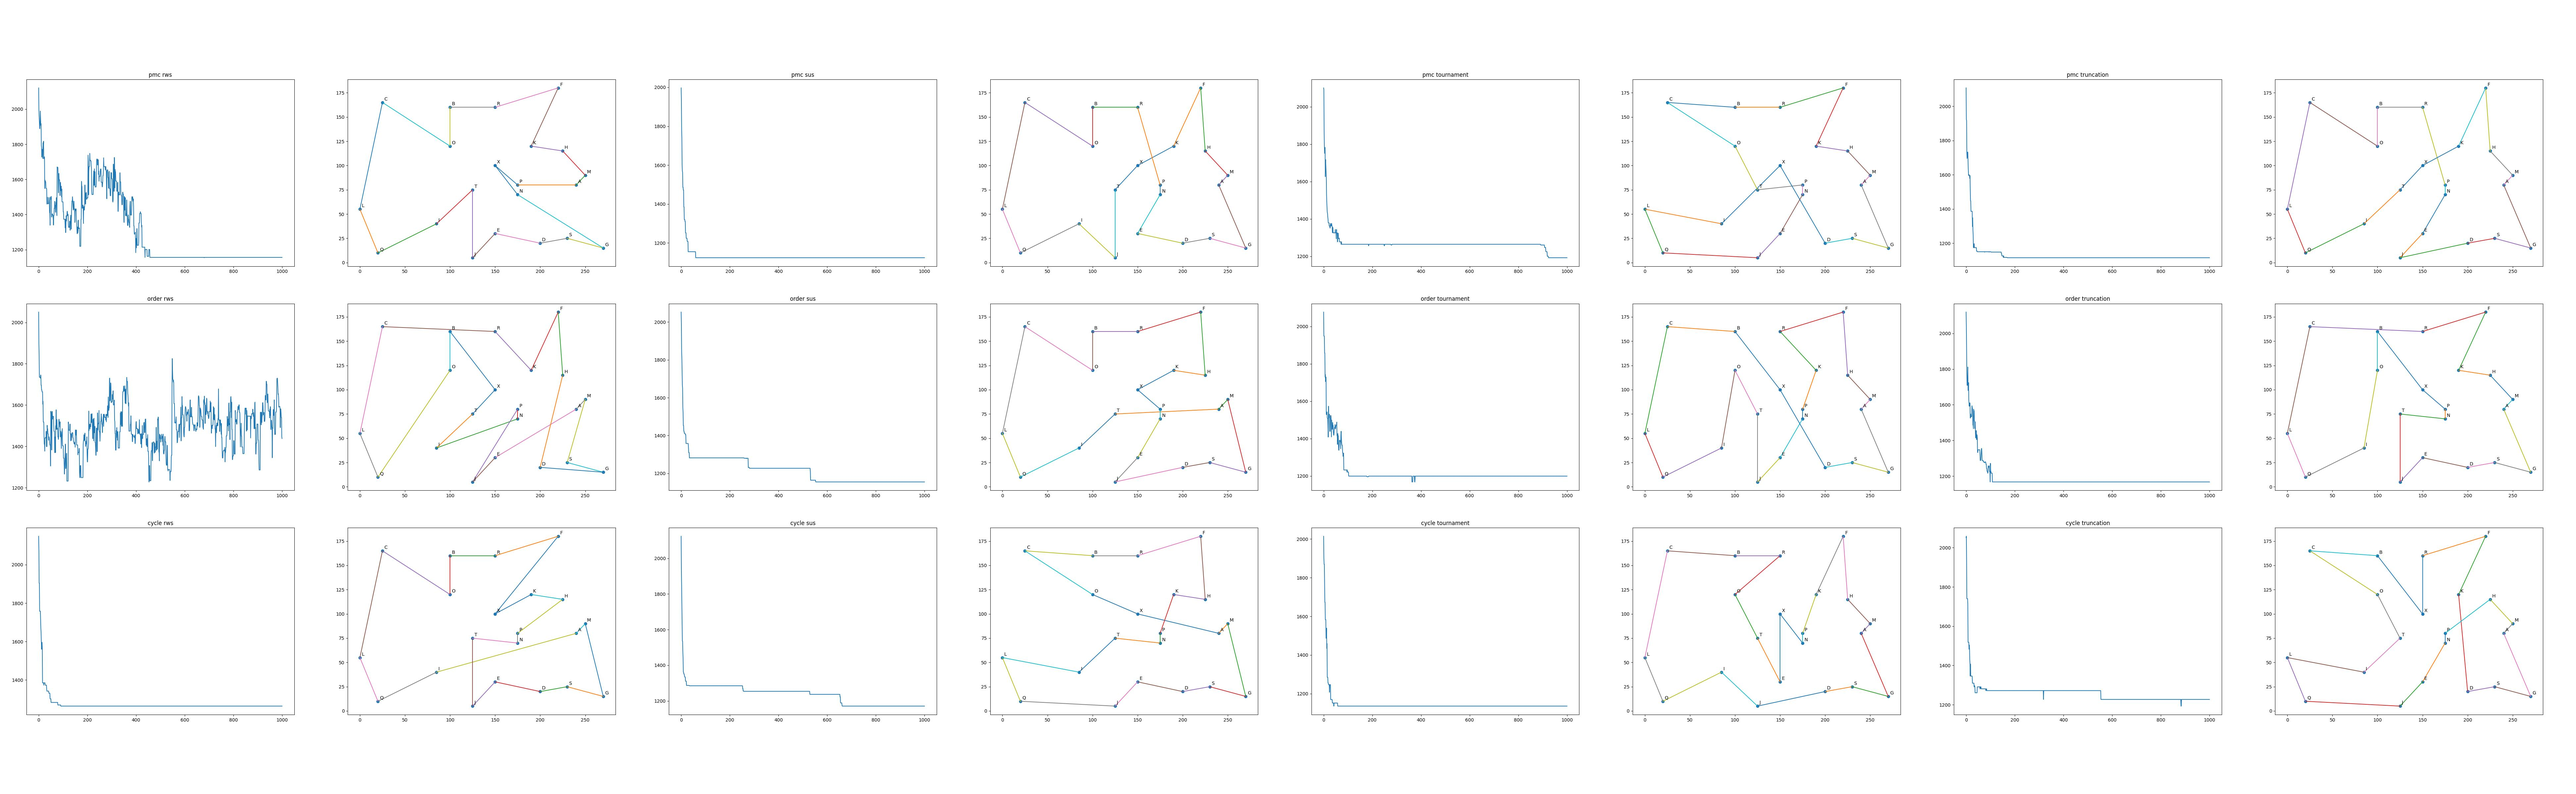
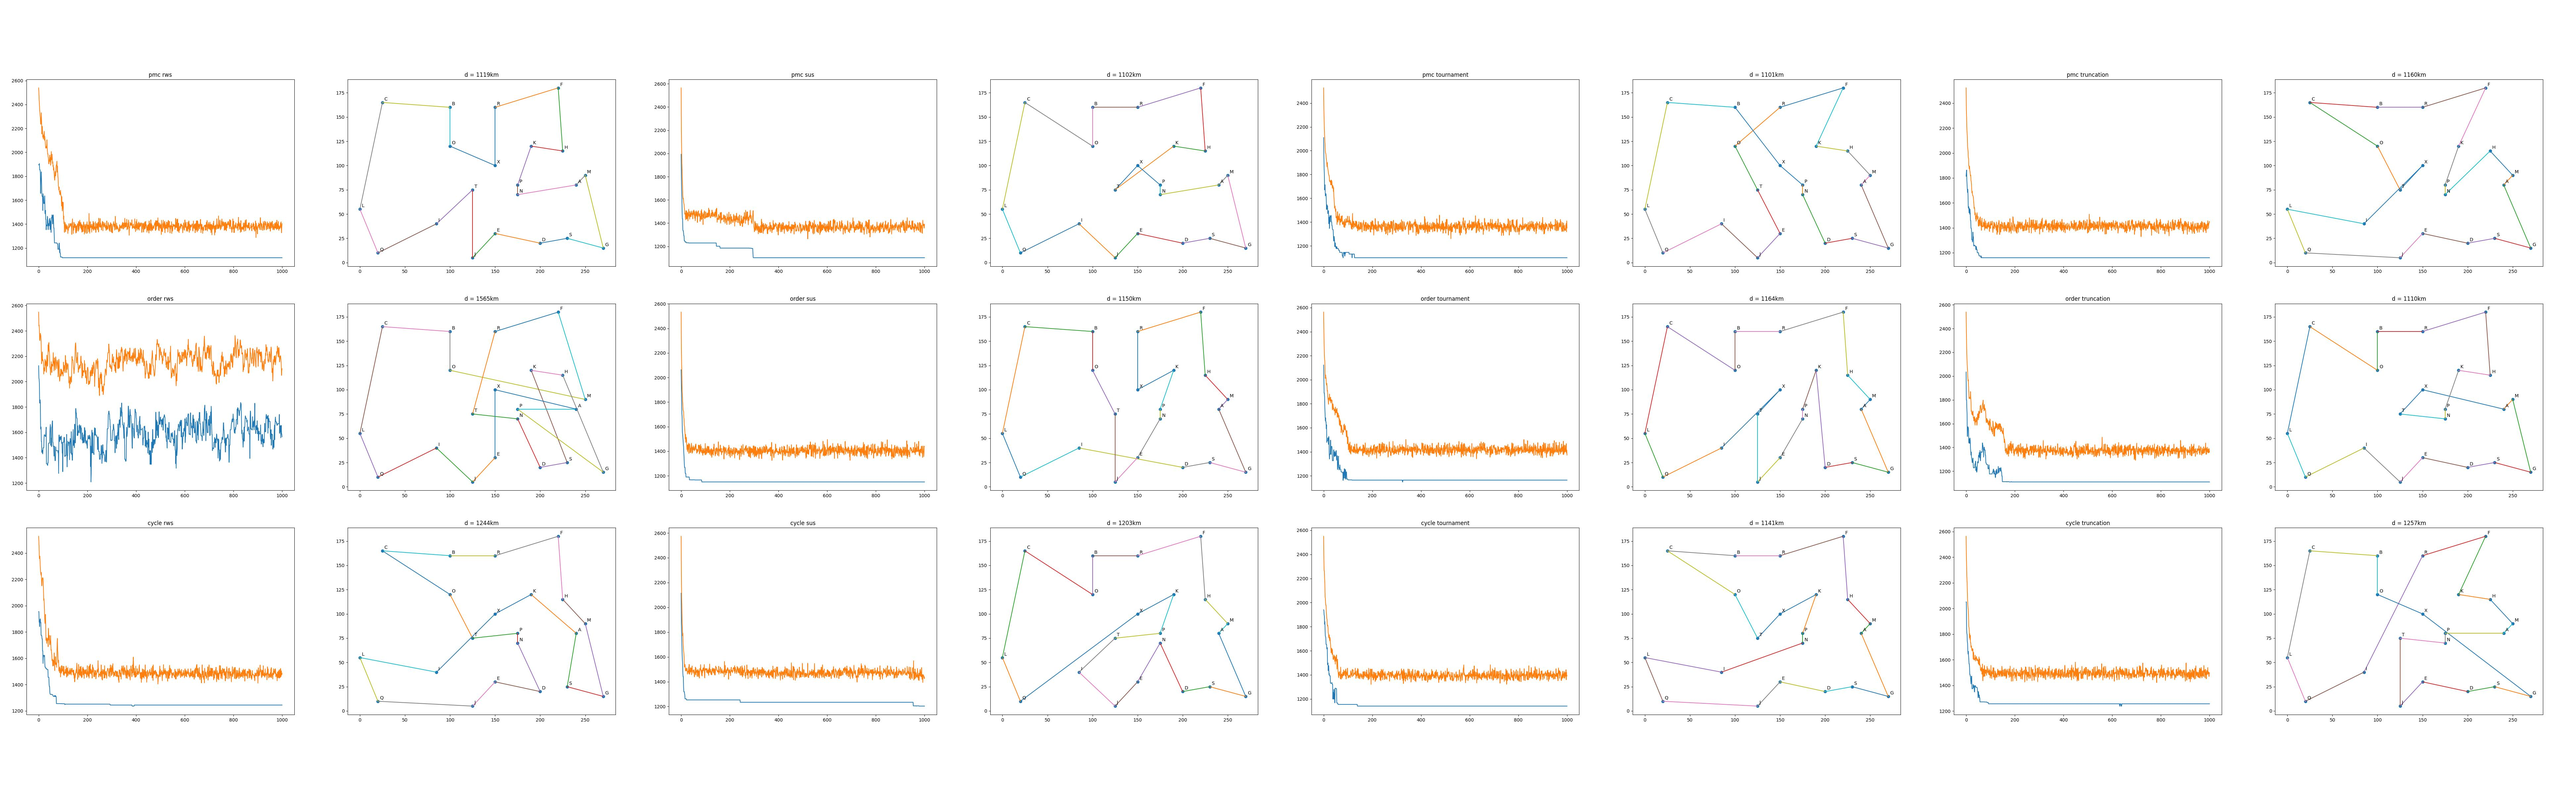
some bugfixes and visual improvements

diff --git a/main.py b/main.py
@@ -4,8 +4,8 @@ import matplotlib
 import numpy as np
 import matplotlib.pyplot as plt
 
-
 # TODO: simulating annealing
+import scipy
 
 
 class GeneticTrainer:
@@ -26,7 +26,8 @@ class GeneticTrainer:
             self.coordinates = [[100, 150]] + [[int(random.random() * 275), int(random.random() * 200)] for _ in
                                                range(self.number_of_cities)]
         self.distances = [
-            [int(np.sqrt((self.coordinates[i][0] - self.coordinates[j][0]) ** 2 + (self.coordinates[i][1] - self.coordinates[j][1]) ** 2)) for i in range(len(self.coordinates))]
+            [int(np.sqrt((self.coordinates[i][0] - self.coordinates[j][0]) ** 2 + (
+                        self.coordinates[i][1] - self.coordinates[j][1]) ** 2)) for i in range(len(self.coordinates))]
             for j in range(len(self.coordinates))]
         self.city_names = ["X"] + [chr(65 + i) for i in range(self.number_of_cities)]
 
@@ -50,26 +51,31 @@ class GeneticTrainer:
         new_path = np.zeros(number_of_cities)
 
         if distribution == "uniform":
-            subsequence_length = random.randint(0, number_of_cities)
+            subsequence_length = random.randint(0, number_of_cities - 2)
         elif distribution == "normal":
-            subsequence_length = 5  # TODO: consider normal distribution for above
+            subsequence_length = int(scipy.stats.truncnorm.rvs(0, 1) * (number_of_cities - 2))
         elif distribution == "test":
             subsequence_length = 5
         else:
             subsequence_length = number_of_cities / 2
 
         if first_city is None:
-            first_city = random.randint(0, number_of_cities - subsequence_length)
+            first_city = random.randint(0, number_of_cities - 1)
 
-        new_path[first_city:first_city + subsequence_length] = path1[first_city:first_city + subsequence_length]
+        if first_city + subsequence_length > number_of_cities:
+            new_path[first_city:] = path1[first_city:]
+            new_path[:(first_city + subsequence_length) % number_of_cities] = \
+                path1[:(first_city + subsequence_length) % number_of_cities]
+        else:
+            new_path[first_city:first_city + subsequence_length] = path1[first_city:first_city + subsequence_length]
 
         counter = 0
 
         for i in range(number_of_cities):
-            if first_city <= i < first_city + subsequence_length:
+            if new_path[i] != 0:
                 continue
             else:
-                while path2[counter] in new_path:
+                while path2[counter % number_of_cities] in new_path:
                     counter += 1
                 new_path[i] = path2[counter]
         return new_path
@@ -80,18 +86,23 @@ class GeneticTrainer:
         new_path = np.zeros(number_of_cities)
 
         if distribution == "uniform":
-            subsequence_length = random.randint(0, number_of_cities)
+            subsequence_length = random.randint(0, number_of_cities - 2)
         elif distribution == "normal":
-            subsequence_length = 5  # TODO: consider normal distribution for above
+            subsequence_length = int(scipy.stats.truncnorm.rvs(0, 1) * (number_of_cities - 2))
         elif distribution == "test":
             subsequence_length = 5
         else:
             subsequence_length = number_of_cities / 2
 
         if first_city is None:
-            first_city = random.randint(0, number_of_cities - subsequence_length)
+            first_city = random.randint(0, number_of_cities - 1)
 
-        new_path[first_city:first_city + subsequence_length] = path1[first_city:first_city + subsequence_length]
+        if first_city + subsequence_length > number_of_cities:
+            new_path[first_city:] = path1[first_city:]
+            new_path[:(first_city + subsequence_length) % number_of_cities] = \
+                path1[:(first_city + subsequence_length) % number_of_cities]
+        else:
+            new_path[first_city:first_city + subsequence_length] = path1[first_city:first_city + subsequence_length]
 
         counter = first_city + subsequence_length
         for i in range(subsequence_length, number_of_cities):
@@ -206,7 +217,7 @@ class GeneticTrainer:
         return path
 
     def train(self, selection_method="rws", crossover_method="pmc"):
-        # ----------- INITALISATION ------------------------------------------------------------------------------------
+        # ----------- INITIALISATION -----------------------------------------------------------------------------------
         cities = np.array([i + 1 for i in range(self.number_of_cities)])
         generation = [np.random.permutation(cities) for _ in range(self.population_size)]
         generation_counter = 1
@@ -228,7 +239,7 @@ class GeneticTrainer:
                 selection = self.stochastic_universal_sampling(generation, fitness, n)
             elif selection_method == "tournament":
                 tournament_size = int(2.5 * self.selection_rate * self.population_size)
-                selection = self.tournament_selection(generation, fitness, n, tournament_size=tournament_size, p=4/9)
+                selection = self.tournament_selection(generation, fitness, n, tournament_size=tournament_size, p=4 / 9)
             elif selection_method == "truncation":
                 selection = self.truncation_selection(generation, fitness, n)
             else:
@@ -256,7 +267,9 @@ class GeneticTrainer:
     def display_cities(self, path=None, ax=None):
         x = [self.coordinates[i][0] for i in range(len(self.coordinates))]
         y = [self.coordinates[i][1] for i in range(len(self.coordinates))]
+        show = False
         if ax is None:
+            show = True
             fig, ax = plt.subplots()
         ax.scatter(x, y)
         for i in range(len(x)):
@@ -266,12 +279,12 @@ class GeneticTrainer:
             path = path.astype(int)
             for city in path:
                 ax.plot([self.coordinates[current_city][0], self.coordinates[int(city)][0]],
-                         [self.coordinates[current_city][1], self.coordinates[int(city)][1]])
+                        [self.coordinates[current_city][1], self.coordinates[int(city)][1]])
                 current_city = city
 
             ax.plot([self.coordinates[current_city][0], self.coordinates[0][0]],
-                     [self.coordinates[current_city][1], self.coordinates[0][1]])
-        if ax is None:
+                    [self.coordinates[current_city][1], self.coordinates[0][1]])
+        if show:
             plt.show()
 
     def decode_cities(self, path):
@@ -290,22 +303,38 @@ def test():
     print(g.decode_cities(cycle_crossover))
 
 
+# noinspection PyTypeChecker
+def evaluate_methods():
+    g = GeneticTrainer(coordinates=coordinates, population_size=100, number_of_generations=1000, mutation_rate=0.15,
+                       selection_rate=1 / 4)
+    crossover_methods = ["pmc", "order", "cycle"]
+    selection_methods = ["rws", "sus", "tournament", "truncation"]
+    history = [[[] for _ in crossover_methods] for _ in selection_methods]
+    for i, c in enumerate(crossover_methods):
+        for j, s in enumerate(selection_methods):
+            history[j][i] = g.train(crossover_method=c, selection_method=s)
+    fig, axs = plt.subplots(len(crossover_methods), len(selection_methods) * 2)
+    for i, c in enumerate(crossover_methods):
+        for j, s in enumerate(selection_methods):
+            axs[i, j * 2].set_title(c + " " + s)
+            axs[i, j * 2 + 1].set_title("d = {}km".format(history[j][i][-1, 1]))
+            axs[i, j * 2].plot(history[j][i][:, 1])
+            axs[i, j * 2].plot(history[j][i][:, 2])
+            g.display_cities(path=history[j][i][-1, 0], ax=axs[i, j * 2 + 1])
+    fig.subplots_adjust(right=12, bottom=0, top=4)
+    fig.savefig("comparison.jpg", dpi=100,
+                bbox_inches=matplotlib.transforms.Bbox([[0, -2.4], [6.4 * 12 + 1, 4.8 * 5 - 2.4]]))
+
+
 test()
 coordinates = [[150, 100], [240, 80], [100, 160], [25, 165], [200, 20], [150, 30], [220, 180], [270, 15], [225, 115],
                [85, 40], [125, 5], [190, 120], [0, 55], [250, 90], [175, 70], [100, 120], [175, 80], [20, 10],
                [150, 160], [230, 25], [125, 75]]
-g = GeneticTrainer(coordinates=coordinates, population_size=100, number_of_generations=1000, mutation_rate=0.15, selection_rate=1/4)
-crossover_methods = ["pmc", "order", "cycle"]
-selection_methods = ["rws", "sus", "tournament", "truncation"]
-history = [[[] for s in crossover_methods] for c in selection_methods]
-for i, c in enumerate(crossover_methods):
-    for j, s in enumerate(selection_methods):
-        history[j][i] = g.train(crossover_method=c, selection_method=s)
-fig, axs = plt.subplots(len(crossover_methods), len(selection_methods) * 2)
-for i, c in enumerate(crossover_methods):
-    for j, s in enumerate(selection_methods):
-        axs[i, j * 2].set_title(c + " " + s)
-        axs[i, j * 2].plot(history[j][i][:, 1])
-        g.display_cities(path=history[j][i][-1, 0], ax=axs[i, j * 2 + 1])
-fig.subplots_adjust(right=12, bottom=0, top=4)
-fig.savefig("comparison.jpg", dpi=100, bbox_inches=matplotlib.transforms.Bbox([[0, -2.4], [6.4*12 + 1, 4.8 * 5 - 2.4]]))
+evaluate_methods()
+
+# g = GeneticTrainer(coordinates=coordinates, population_size=100, number_of_generations=1000, mutation_rate=0.1,
+#                    selection_rate=1 / 4)
+# history = g.train(crossover_method="order", selection_method="rws")
+# plt.plot(history[:, 1])
+# plt.show()
+# g.display_cities(path=history[-1, 0])
